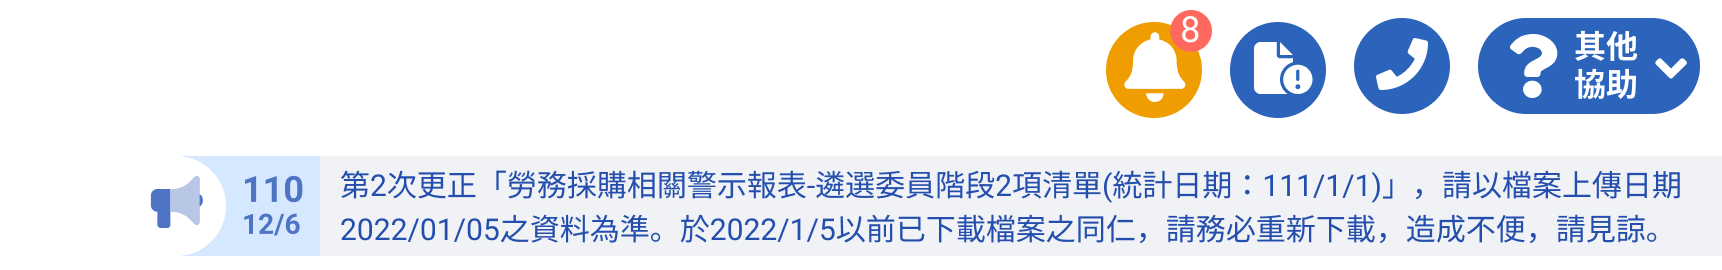
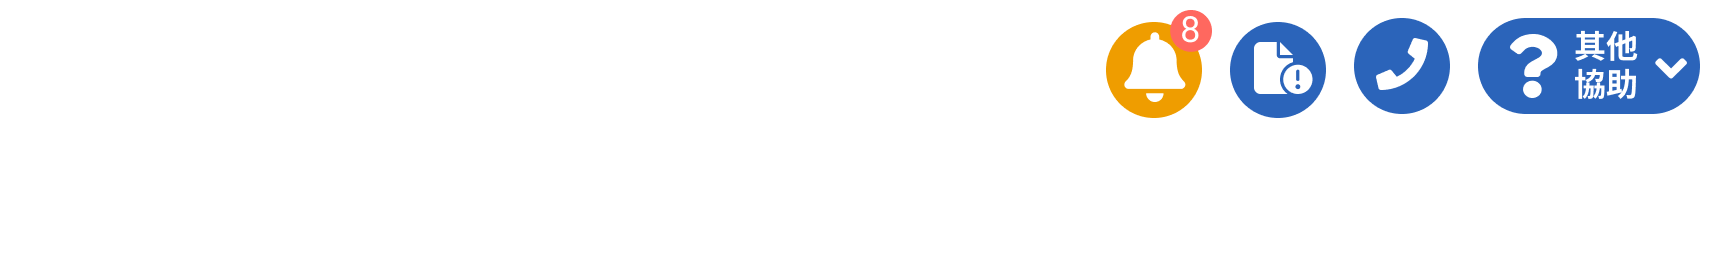
版面修正

Changed region(s): [[0.0616, 0.563, 0.9849, 0.9481]]

diff --git a/WraDashboard/css/style.css b/WraDashboard/css/style.css
@@ -71,7 +71,7 @@ body.demo {
     height: 127px; */
     width: 440px;
     height: 110px;
-    background: url(../images/demo/demo-logo.png) 5px 0 no-repeat;
+    background: url(../images/demo/demo-logo.png) 10px 3px no-repeat;
     background-size: 83%;
 }
 
@@ -96,6 +96,17 @@ body.demo {
     background-size: 100%;
     transform-origin: 100% 0;
     transform: scale(.75);
+}
+
+.demo-news {
+    position: absolute;
+    left: 50%;
+    top: 60px;
+    width: 1040px;
+    height: 44px;
+    background: url(../images/demo/demo-news.png) 50% 50% no-repeat;
+    background-size: auto 100%;
+    transform: translateX(-50%);
 }
 
 .page[data-menu="open"] .demo-user-help {

diff --git a/WraDashboard/dashboard_系統控管人員.html b/WraDashboard/dashboard_系統控管人員.html
@@ -35,9 +35,10 @@
             <nav class="demo-float-sub-menu"></nav>
         </aside>
         <header class="demo-header">
-            <a href="#" class="flex">
+            <a href="#" class="flex relative">
                 <div class="demo-logo"></div>
                 <div class="demo-user-help"></div>
+                <div class="demo-news"></div>
             </a>
         </header>
         <main>
